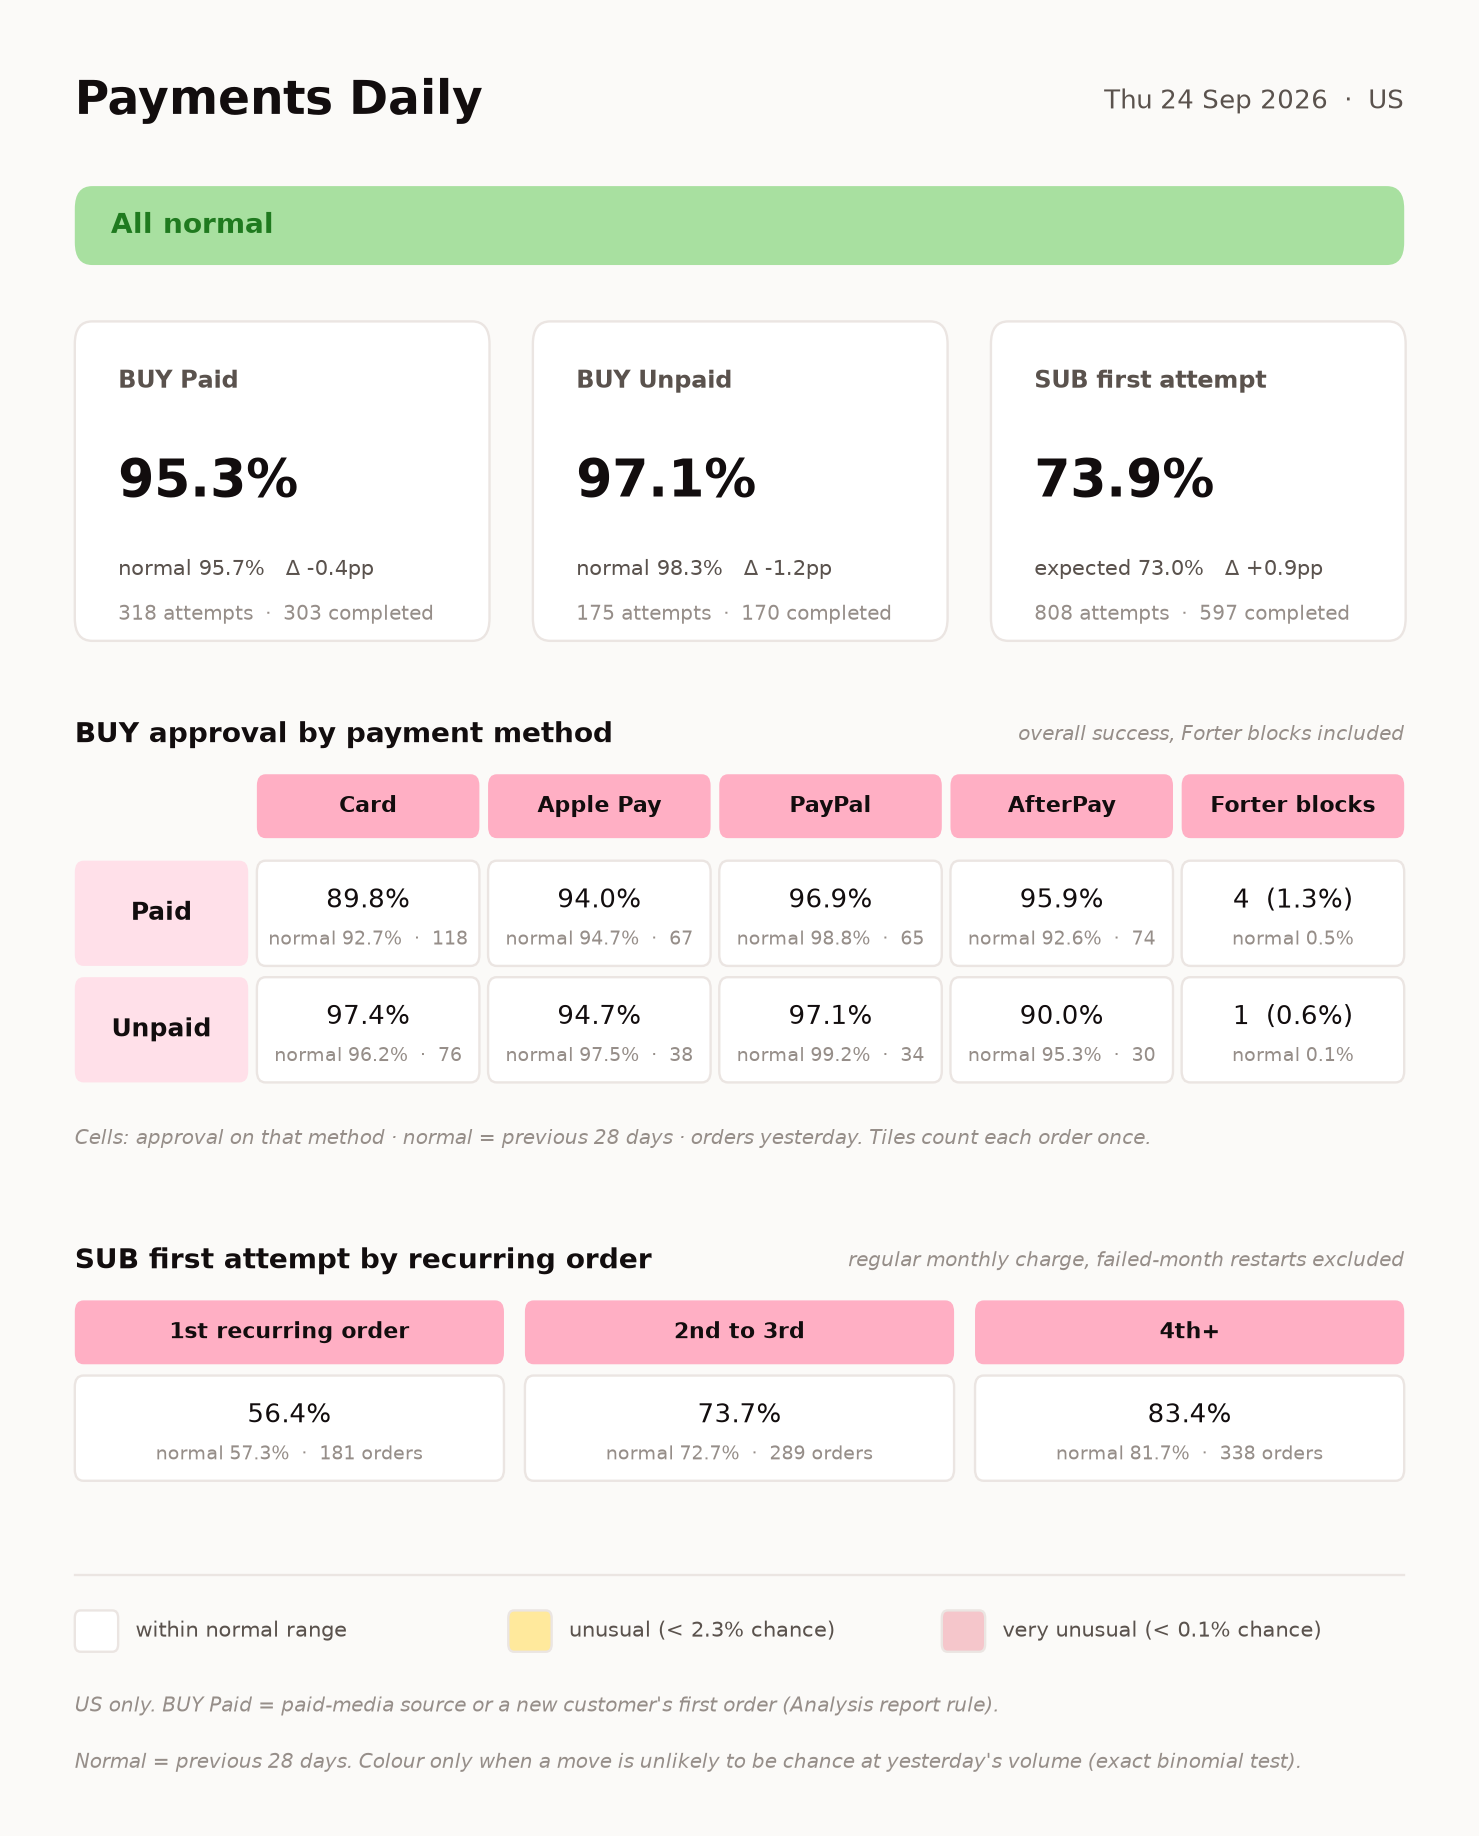
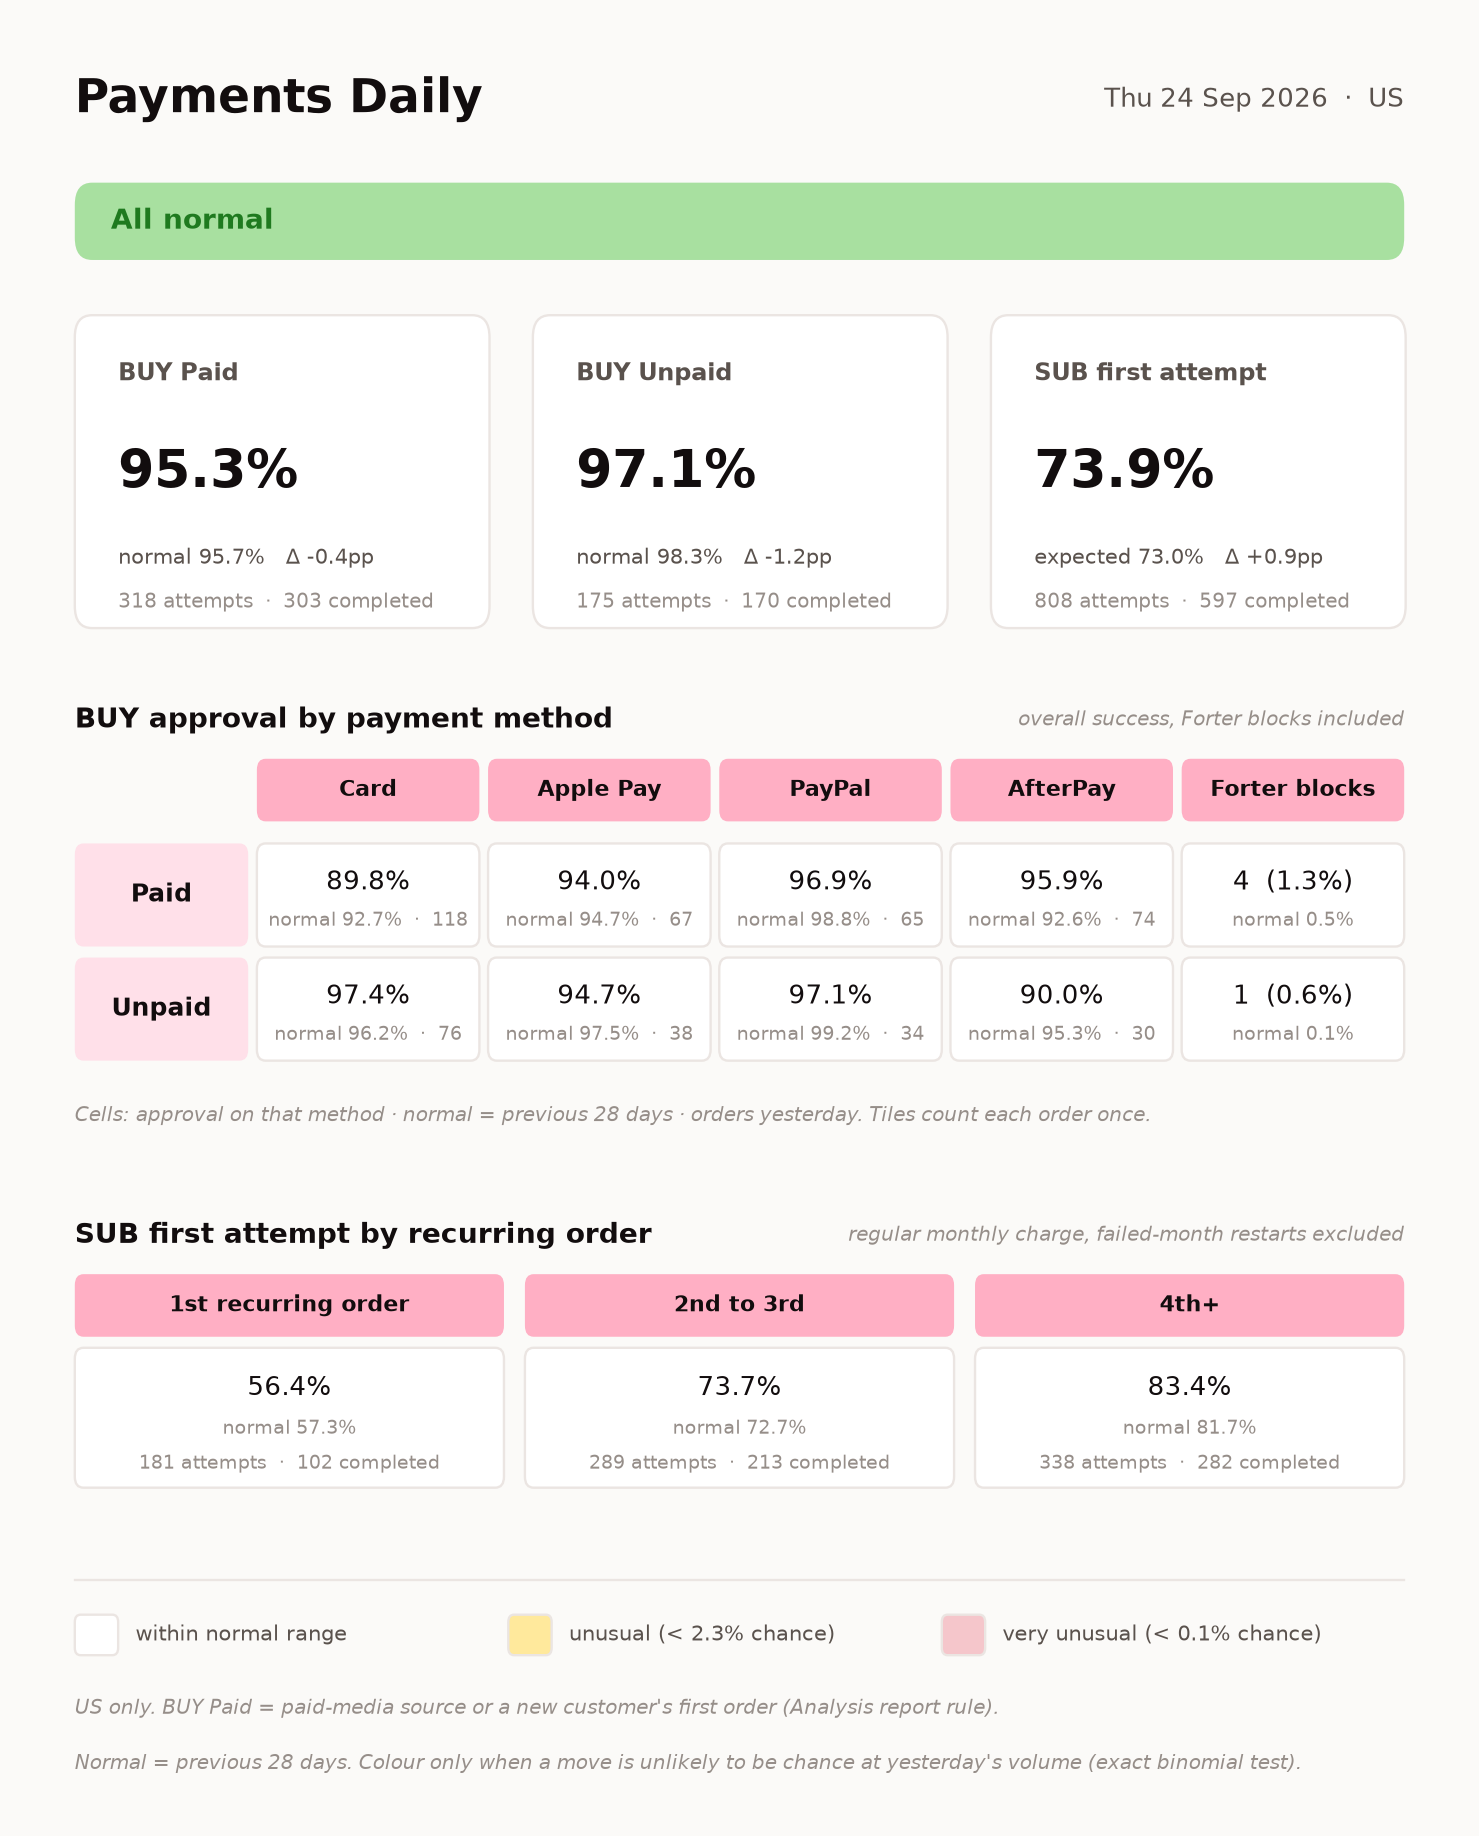
SUB cells: show attempts and completed orders (#114)
Claude-Session: https://claude.ai/code/session_01Bf6k2EmHxJKCK1oXwMqin2

diff --git a/run_daily_payments.py b/run_daily_payments.py
@@ -158,10 +158,10 @@ def build_model(cells: dict) -> dict:
         y = get("Y", "Sub", code)
         base = rate(get("B28", "Sub", code))
         st = score(y, base)
-        m["sub"].append(dict(name=name, v=rate(y), base=base, n=y[0], st=st))
+        m["sub"].append(dict(name=name, v=rate(y), base=base, n=y[0], k=y[1], st=st))
         if st in ("amber", "red"):
             m["flags"].append((st, f"SUB {name} approval: {rate(y)*100:.1f}% vs {base*100:.1f}% "
-                                   f"normal ({y[0]} orders)"))
+                                   f"normal ({y[0]} attempts)"))
     return m
 
 
@@ -268,9 +268,13 @@ def generate_image(cells: dict, report_date: str, out_path: Path) -> None:
     xs = [4 + i * (pw + 1.45) for i in range(3)]
     header(y0, xs, pw, [s["name"] for s in m["sub"]])
     y0 -= 6.2
+    y0 -= 2
     for x, s in zip(xs, m["sub"]):
-        cell(x, y0, pw, 5.6, _pct(s["v"]) if s["n"] else "no orders",
-             f"normal {_pct(s['base'])}  ·  {s['n']} orders", s["st"])
+        box(x, y0, pw, 7.6, FILL[s["st"]], r=0.6)
+        txt(x + pw / 2, y0 + 5.4, _pct(s["v"]) if s["n"] else "no orders", ha="center", fontsize=11)
+        txt(x + pw / 2, y0 + 3.2, f"normal {_pct(s['base'])}", ha="center", fontsize=8, color=NEU2)
+        txt(x + pw / 2, y0 + 1.3, f"{s['n']:,} attempts  ·  {s['k']:,} completed",
+            ha="center", fontsize=8, color=NEU2)
     y0 -= 5
 
     # legend
